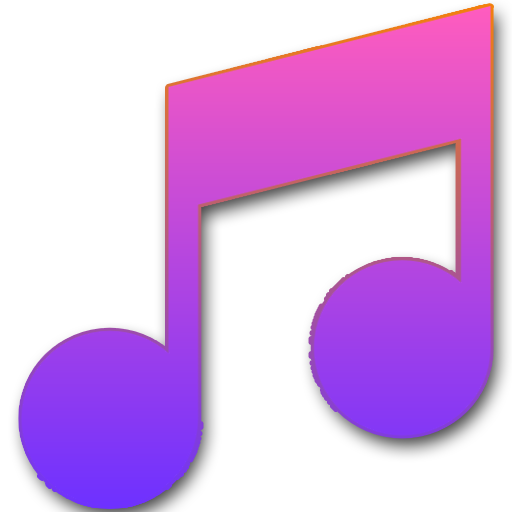
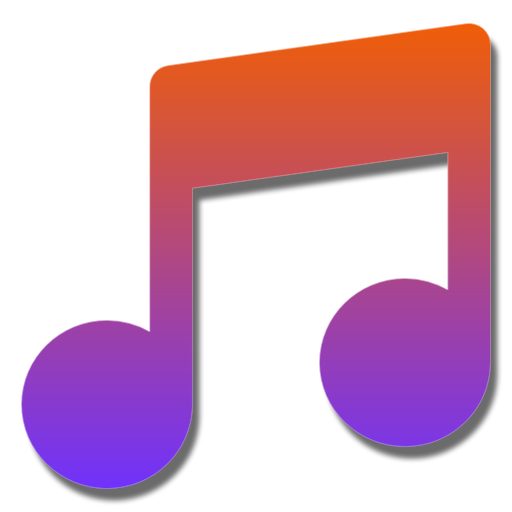
add: musica

diff --git a/FrontEnd/js/productos.js b/FrontEnd/js/productos.js
@@ -1,15 +1,12 @@
 const contenedorProductos = document.getElementById("contenedor-productos");
 const urlBase = "http://localhost:3000";
 const musica = document.getElementById("musicaFondo");
+const btnStop = document.getElementById("musica-img");
 musica.volume = 0.05;
-
-// if (!nombreUser) {
-//     window.location.href("bienvenida.html");
-// }
-
 let carrito = [];
 const productos = [];
 const carritoHistorico = JSON.parse(sessionStorage.getItem("productosCarrito"));
+
 /*=======================
         FUNCIONES
     =======================*/
@@ -94,6 +91,19 @@ function mostrarNombreUsuario(){
 function init(){
     mostrarNombreUsuario()
     buscarProductosActivos();
+    pararMusica();
+}
+
+function pararMusica() {
+    btnStop.addEventListener("click", () => {
+        if (musica.volume > 0) {
+            musica.pause();
+            musica.volume = 0;
+        } else {
+            musica.play();
+            musica.volume = 0.05;
+        }
+    });
 }
 
 

diff --git a/FrontEnd/bienvenida.html b/FrontEnd/bienvenida.html
@@ -16,7 +16,6 @@
     <link rel="icon" type="image/png" href="./favicon/favicon-96x96.png" sizes="96x96" />
     <link rel="icon" type="image/svg+xml" href="./favicon/favicon.svg" />
     <link rel="shortcut icon" href="./favicon/favicon.ico" />
-    <!-- <link rel="manifest" href="/favicon/site.webmanifest" /> -->
 </head>
 
 <body>

diff --git a/FrontEnd/css/styles.css b/FrontEnd/css/styles.css
@@ -172,6 +172,7 @@ header {
 #musica-img {
     width: 70px;
     filter: drop-shadow(0 2px 4px rgba(0, 0, 0, 0.3));
+    cursor: pointer;
 }
 
 /* Parrafo admin nav */
